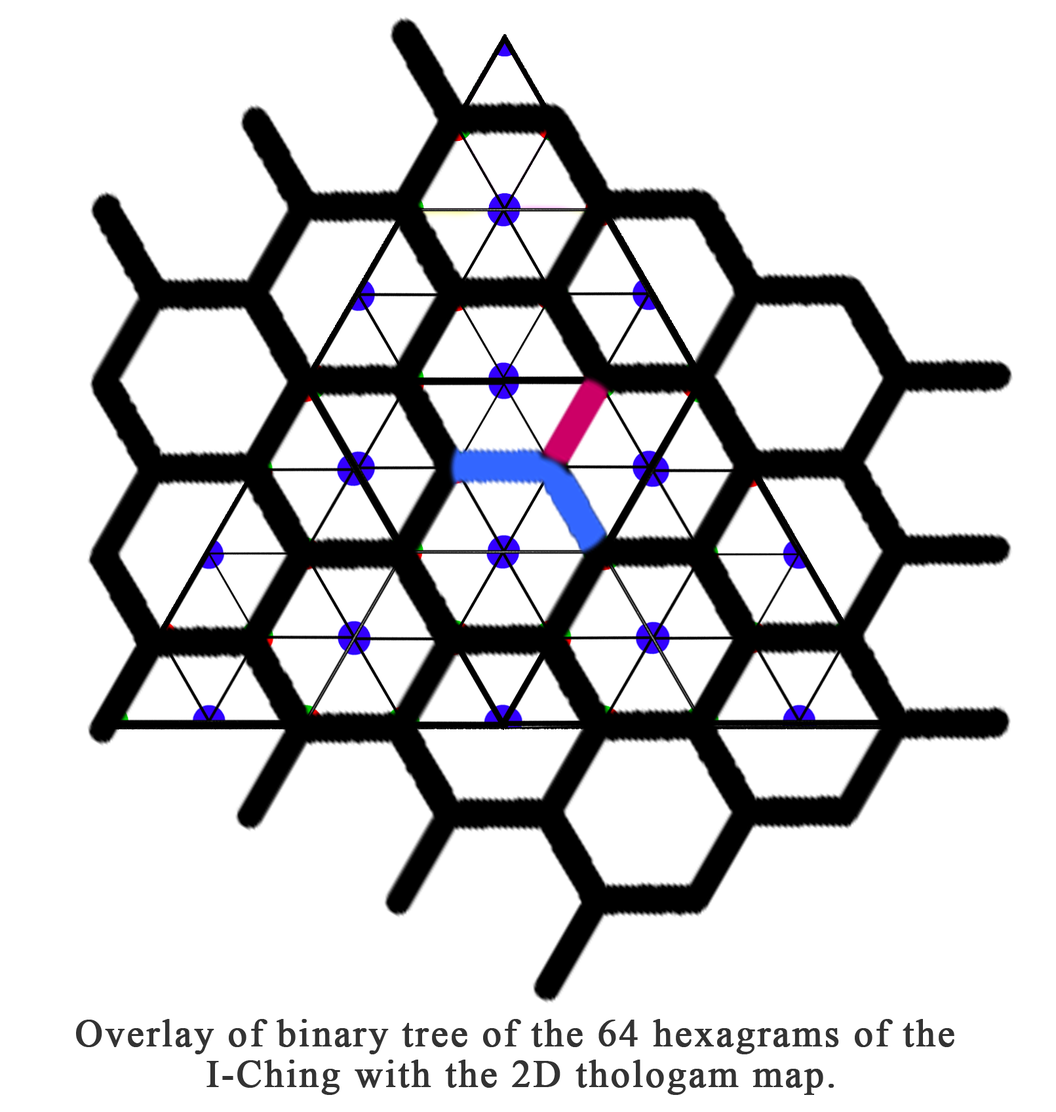
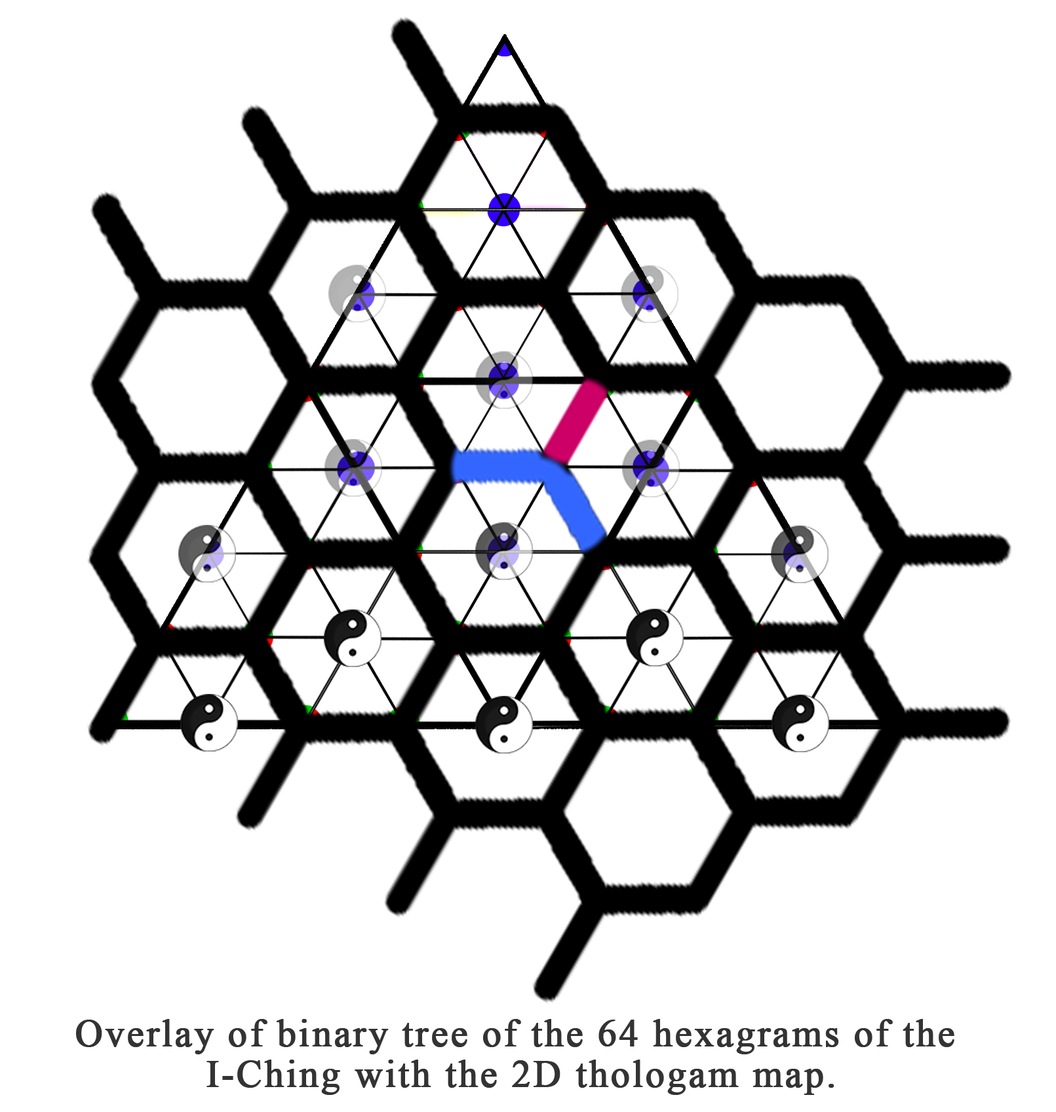
added section on I-Ching-

diff --git a/docs/_layouts/default.html b/docs/_layouts/default.html
@@ -36,7 +36,7 @@
           <li><a target="_blank" href="https://mega.nz/#F!NiBwjQiA!VYOo9TlGW9u060-V1LQ0_w">Download <strong>ePub</strong></a></li>
           <li><a target="_blank" href="https://mega.nz/#F!NiBwjQiA!VYOo9TlGW9u060-V1LQ0_w">Download <strong>HTML</strong></a></li>
         </ul>
-              current version: lun 28 oct 2019 11:23:49 EDT v.1.0.4
+              current version: mié 30 oct 2019 02:21:42 EDT v.1.0.7
 
 <!--
         ZIP and TAR downloads include 20+ megs of webpages, scripts, images and other material. 

diff --git a/Latest/THOLONIA_THE_BOOK.md b/Latest/THOLONIA_THE_BOOK.md
@@ -1,6 +1,6 @@
 <center><img style="text-align:center;width:100%" width="100%" src="../Images/000-cover.png" /></center>
 <div style="page-break-before: always"></div>
-DRAFT - Version Alpha {!lun 28 oct 2019 11:23:49 EDT v.1.0.4}
+DRAFT - Version Alpha {!mié 30 oct 2019 02:21:42 EDT v.1.0.7}
 
 Tholonia: The Existential Mechanics of Awareness
 Copyright © 2019 Duncan Stroud
@@ -1449,9 +1449,6 @@ You may also notice what looks like an inconsistency in the order of the letters
 We started with one trigram, created one more, resulting in 4 trigrams. Each generation of self-similar creation increases the number of trigrams by 4. Here is what the generations look like.
 
 <center><img src="../Images/062-4generations.png" style="width:90%" /></center>
-
-
-
 In the 1<sup>st</sup> generation of a simple trigram, we see a few fundamental rules, such as:
 
 -   All sides are of equal length
@@ -1637,7 +1634,7 @@ Does this mean that our 3D reality is embedded within a parent 3D reality? Accor
 
 ### Synergetics
 
-What some people today call *sacred geometry* our ancestors simply called geometry. Contrary to what we learned in school, geometry is as much a study of philosophy as it is a study of form, space, and mathematics. Plato, Pythagoras, Parmenides, and a number of other great philosophers were well-schooled in geometry, but the marriage of philosophy and geometry goes back even further in history, and across every culture. Take the quadray coordinates system as an example. One could make a case that the Ancient Babylonian base-60 number system was an early version of this idea.  In fact, one could make the case that the 20,000 year old Ishango Bone of the upper paleolithic era discovered in the Congo was the earliest versions of a base-60 system.  This bone is considered to be the fist instance of the concept of the number one.  On this bond are counting marks, 60 marks on one side, and 60 marks on the other side.  One has to wonder why a paleolithic caveman would choose 60 when other mammals could only count to 3 or 4.
+What some people today call *sacred geometry* our ancestors simply called geometry. Contrary to what we learned in school, geometry is as much a study of philosophy as it is a study of form, space, and mathematics. Plato, Pythagoras, Parmenides, and a number of other great philosophers were well-schooled in geometry, but the marriage of philosophy and geometry goes back even further in history, and across every culture. Take the quadray coordinates system as an example. One could make a case that the Ancient Babylonian base-60 number system was an early version of this idea.  In fact, one could make the case that the 20,000 year old Ishango Bone of the upper paleolithic era discovered in the Congo was the earliest versions of a base-60 system.  This bone is considered to be the fist instance of the concept of the number one.  On this bone are counting marks, 60 marks on one side, and 60 marks on the other side.  One has to wonder why a paleolithic caveman would choose 60 when other mammals could only count to 3 or 4.
 
 *Synergetics* is a modern-day example of how geometry forms the basis of the structure of creation, life and how everything interacts with each other. Buckminster Fuller coined the term *synergetics* in his three-volume work “*Synergetics. Explorations in the Geometry of Thinking*.”<sup>[52](#ref_052)</sup><a name="rev_052">&nbsp;</a>, wherein he explains how using a 60-degree coordinates system can explain both physics and chemistry, but more importantly, he believed that it also explained reality. In his words:
 
@@ -2721,6 +2718,208 @@ In this figure…
 …we show the three perspectives of a tholon, including the base, but you'll notice that the base trigram is reversed, as would be the case in a tholon as it is a mirror image of its parent, as described earlier. An interesting point here is that the outer boundaries of each figure show a consistent direction of flow, *Fig. v1* being neutral, *Fig. v2* clockwise, and *Fig. v3* counterclockwise, which matches the direction of the sides, however, the base is always counterclockwise.
 
 Tholonically, we can easily map thinks like Ragone and utility space (as in the battery), or laws and social responsibility (as in the example of society), to a simple trigram, but it is not yet clear, to me at least, what the social equivalent social expression of *I<sup>2</sup>* or, *SQRT(P/R)*, would represent. In fact, there are quite a lot of relationships, rules, and formulas in a tholon that will require considerably more study. What is presented here is the idea that the tholon can represent any system when described in its most reduced states. This work is more akin to the Wright Brother’s first flight rather than a modern airplane, but like the Wright Brother’s first flight, they demonstrated what *could* be. That is what I hope to achieve here.
+
+
+<div style="page-break-before: always"></div>
+C - Tholonia and the I-Ching
+=================
+
+
+###### **!!! his sections is a work-in-progress and still quite incomplete. !!!**
+
+
+
+It's been mentioned several times already that the basic principles of the tholonic model should exist in any sustainable model, be it form or idea, if all creation follows the same rules.  
+
+To test this we would need to find a model that has existed for many years, purports to explain the nature of reality,  is expressed in a language compatible with geometry or mathematics, which would be necessary to make valid comparisons with the thologram as it is also based on geometry and mathematics.
+
+Many religious, spiritual and legendary models claim to shed light on the mystery of reality, and even though we can find metaphorical parallels within the thologram, that is not sufficient to make a solid case.  We need something more quantified.
+
+The closest Western models that we can find are science and its precursor, alchemy.  However, we want to find a model that is outside the more science-based because it is already obvious how geometry and math work in those areas.   We also prefer to find a model that is more ancient as the hypothesis here is that both ancient and modern models of reality have the same conceptual foundation.
+
+What ancient models exist?  There are the Hindu scriptures, which are both elaborate, detailed and quite ancient, but extremely difficult to quantify for comparison.
+
+There is the ancient work of Sumeria, Babylon, Egypt and the Jews, all of which culminate in the mystical Kabbalah, but these works are so shrouded and protected that simply compiling the data necessary would be the task of a lifetime.
+
+Finally, we have the ancient Chinese I-Ching, or Book of Changes, which dates back to the 10th century B.C. and has been integrated into Taoism, Confucianism, Buddhism and more.
+
+Of these, the I-Ching is the best candidate for the following reasons...
+
+- It is based on the same basic idea that every exists between a state of somethingness and nothingness.
+- It's origins come from the legendary world ruler Fu Xi's desire to "become thoroughly conversant with the numinous and bright and to classify the myriad things." which is the same motivation behind the birth of philosophy and ontology in the West.
+- Unlike the Hindu texts, and to a lesser degree the Kabbalah, the I-Ching is constantly evolving.  What began as a primitive ritual of comparing tortoiseshell cracks to the stars i the sky has evolved into a form of binary math that even great thinks of today are trying to decipher.
+- It has found a home in every major culture in the world; Western, Jewish, Islamic, Asian and East Asian and its ideas have been incorporated into philosophy, religion, art, literature, science, technology and medicine.
+
+So, let's deconstruct the I-Ching using the tholonic modal and see what we find.
+
+For the record, I had no idea how this would turn out.  I did not do it ahead of time and only report successful results.  In fact, only after the entire book was written did I have the ideas to test against the I-Ching.  The results I report here were all new to me at the time of the writing, and they were and absolutely astonishing.
+
+There are many, many books on the origins and philosophy of the I-Ching, so we are not going to get into that here.  If you want to know more about some of the details we present regarding the I-Ching you are going to have to do your own research.
+
+The most obvious and important foundation of the I-Ching is that it is based on the polarity of yin and yang.  Although this concept arose before the birth of Taoism, the Taoist symbol of Yin/Yang has come to perfectly embody its concept.
+
+<center><img style="text-align:center;width:30%" src="../Images/ic_yinyang.jpg" /></center>
+This Taoist symbol does not represent the Oneness from which the first duality emerged, as it is often believed.  Rather it represents the Oneness that emerges from an existing duality, in others words, an N-state.   The original Oneness, for which there is no image, is the source from which the initial ‘blue dot’ appears in nothingness, and as is did not come from a duality (that we can see) there is nothing we can say about it for now other than “it just is.”  So, this image represents the Oneness that comes from the first duality if somethingness and nothingness.  In the thologram,, that first duality is the ‘green dot’ and the ‘red dot’, and if you remember, it is only the spectrum that connects these two dots where a new N-state can emerge from.
+
+From the tholonic perspective, that which created the first duality is different from that which creates all the other dualities, but the process is the same.  If we reuse a earlier diagram of the tholonic trigrams but replace the initial, and only the initial N-source with a Zen circle (because I have no ideas what *should* go there, just that is should not be the Tao circle), we have the following.
+
+<center><img style="text-align:center;width:100%" src="../Images/tao-3-steps.png" /></center>
+The I-Ching, like the thologram, has the basic concept of a trigram as the stable building block of ideas.  In the I-Ching a trigram is simply three states of yin/yang together to form a stable concept.  There are eight possible combinations when using yin and yang.
+
+<center><img style="text-align:center;width:30%" src="../Images/8-trigrams.jpg" /></center>
+.
+
+The I-Ching also has a concept of an ‘lower’ and an ’upper’ state.  The lower state can be earth, matter, the subjective, the hidden, the inner, etc. depending on context.  The ‘upper’ state is that of heaven, ideas, archetypes, the outer, exposed and the arena of creation, etc, also depending on context.  A hexagram is made up of these two states, each state occupied by one of the eight trigrams.  This results in a total of 64 hexagrams, the total number of hexagrams in the I-Ching 
+
+<center><img style="text-align:center;width:70%" src="../Images/ic_64hex.png" /></center>
+An I-Ching trigram is a very simple concept of earth at the bottom, heaven at the top and humanity in the middle.  As you can see, this is not only a very simple concept, but a very limited one as these concepts only apply to a human context.  The thologram has the same concept of a trigram that is quite compatible with the I-Ching but far more functional.  The tholonic trigram is made of a thesis, antithesis and a synthesis; a source, and its two polar opposites that define it.  Certainly the I-Ching model of a trigram fits into this if humanity is the synthesis of heaven and earth, or if the duality of heaven and earth define the spectrum wherein humanity will grow.
+
+The thologram also a a concept of “upper” and Lower” in that the ‘upper’ trigram of the I-Ching therefore equates nicely to the parent trigram of a tholon, and the resulting inner trigram of the tholon, because it was created by the new N-source of the parent, equates perfectly with the “lower’ trigram of the I-Ching.  We can now see that the final hexagram is perfectly equivalent to a tholon map.
+
+
+
+<center><img style="text-align:center;width:100%" src="../Images/tri-is-hex.png" /></center>
+It might see counterintuitive that the *upper* or *outer* trigrams of the I-Ching equate to the smaller and smaller embedded trigrams of the thologram, but not when you consider that it is the smallest and most embedded tholons that represent the bleeding edge of reality where new creations are being born, dying, and morphing.  The farther up the thologram the less things change.  In the thologram, the parent trigrams is what forms the environment or context for a new N-source to come into existence, so the parent trigram is the time of gestation for the yet to be manifest N-state.  The smaller, inner trigram inside the parent is where the newly created N-state crates its own environment.  This is why the I-Ching’s *lower* trigram equates to the tholon’s parent tholon, and the upper trigram equates to the child tholon’s instantiation. This is different from when we create a tholon by incorporating the trigrams all on the same map (the grayed out trigrams in the above example).  
+
+*Note:One interesting details when we use the outer trigram on the parent level with the inner trigram on the child level; all the numbers for each side equal nine (1+6+2, 2+4+3, 3+5+1).  That does not mean it is correct, but it does mean there is natural symmetry, and symmetry is an excellent indicator of order, and therefore energy.*
+
+In the hexagram there are two lines that represent the best form of expression in the inner and the outer level, and those are the middle line of the lower trigram (line #2) and the middle line of the upper trigram (line #5).  Tholonically these two points are the beginning points, and therefore the creators, of the only two lines in the tholon that are capable of interacting with other tholons (i.e., anything outside itself).
+
+The above satisfies me that the thologram and the I-Chine are based on the same model but were arrived at from very different directions, in different contexts and withins different scopes.
+
+According to the I-Ching it requites 6 stages of growth necessary to allow the unfolding to complete.  This is stated very cleary:
+
+> All movements are accomplished in six stages, and the seventh brings return.
+
+##### ~ Hexagram 24 ‘Return’
+
+> The holy man, who understands the mysteries of creation inherent in end and beginning, becomes superior to the limitations of the transitory. For him, the meaning of time is that in it, the stages of growth can unfold in a clear sequence. He is mindful at every moment and uses the six stages of growth as if they were six dragons (the image attributed to the individual lines) on which he mounts to heaven.
+
+##### ~ Commentary on hexagram #1, the Creative (The I Ching,  Wilhelm/Baynes edition)
+
+So it is not surprising that the 64 hexagrams represent the 64 paths from Tao to endpoint that result from 6 stages bifurcation.  
+
+<center><img style="text-align:center;width:100%" src="../Images/ic-btree.png" /></center>
+How would the thologram describe these six stages then?  Although this bifurcation produces 64 paths, it is more accurate to think of two sets of trees, each tree only 3 levels deep.  In this was we have 8 trigrams from one tree and 8 from another tree.  The reason this is more useful is because the two trigrams, upper and lower, are essentially the same but in two different contexts.  For example:
+
+- **Line 1** is **yang** by nature in the lower trigram and represents something like **insemination** or **conception**. It represents the existing and stable N-state and its attempt to create a new instance of itself.  It is the synthesis creating a new thesis.
+- **Line 2** is **yin** by nature and represent the nature of **gestation**.  This is where the concept, or what ever was created, has to instantiate itself with the resources at hand.  It is in this stage that where on the spectrum the conception will find stability.
+- **Line 3** is **yang** by nature and represents the final product that is now ready to be introduced (given back to) to the outer world.  This is the beginning of birth.
+
+In-between line 3 and line 4 is when/where the N-state is negotiated as a result of a stable pattern emerging on the spectrum between two poles.  This would not only be equivalent to birth but tholonically is a reconstitution, a resurrection, of the N-state from which its duality was born.
+
+Once we cross the line from inner to outer, the pattern flips.  What was **yang** in the *inner* world is **yin** in the *outer* world, and what was **yin** in the *inner* world is **yang** in the *outer* world.  We see this same thing in the *reflection* trigrams and virtual tholons.
+
+- **Line 4** is **yin** by nature in the upper trigram and represents the **initiation** or **propagation** of this new stable instance (baby, invention, vision, creations of any kind) into the outer world.
+- **Line 5**  is **yang** by nature and represents the **culmination** or the **limits** of this instance’s existence.  
+- **Line 6**  is **yin** by nature and represents the **integration** of the creation into the larger whole, or tholonically speaking, how it is **amalgamated** into the thologram.  This marks the end of the upper trigram and its transition into a *lower* trigram for the next iteration.
+
+Here are a couple of interesting observations:
+
+- In-between line 3 and line 4 is when/where the N-state is negotiated as a result of a stable pattern emerging on the spectrum between two poles.  This would not only be equivalent to birth but tholonically is a reconstitution, a resurrection, of the N-state from which its duality was born.
+- We see 6 popping up a lot.  We have 6 steps of creation of a hexagram, six electrons in carbon, the major building block of life, the N-source has a value of 6, we see 6 play a significant role in creation myths such as Genesis and the Quran where all of creation was accomplished in 6 days, and in the Babylonian creation myth, the Enuma Elis, where God created 6 gods, each in charge of the 6 different aspect of creation (where they spent 2 days creating everything and the rest of their days fighting with each other).  6 seems to be very significant number and is firmly associated with the concept of creation.
+
+
+
+To help illustrate these steps, let’s look at this bifurcating tree in a different way:
+
+<center><img style="text-align:center;width:80%" src="../Images/taotree.png" /></center>
+Here we have the same tree, but the starting point is in the middle as opposed to the top.  The blue circles represent the yang lines and the red circles represent the yin lines.  Following the path from the center to every endpoint will result in 64 paths, each one matching one of the I-Ching hexagrams.
+
+The first thing to notice is two-fold: 1) the top and the bottom are the same but opposite, and 2) this is the same archetypal structure that we see in all growing and alive systems, the most obvious being plants and trees with their roots and stems, and is a very good instantiated example of the concept of *inner* and *outer*, *upper* and *lower*. etc. 
+
+The second to notice is that all the *inner* paths, which are those that begin from the first red dot after the Tao symbol, start with with a yin value.  This is significant because in thologram there is a similar concept of a real tholon and a virtual tholon which are matched to create a complete tholon.  In the thologram all odd numbered tholons are real and all even numbered tholons.  Likewise all hexagrams that begin with a yin line are even numbered hexagrams, and those that begin with  a yang are odd numbered.  We now have a very clean mapping between the thologram and the I-Ching of *virtual* as yin and *real* as yang.  If you are thinking “Well, would that happens if we just rearrange the numbers of one process and use them in another?“, which would be a very valid question, remember that we arrived at the same results from two completely different processes; the process of the thologram was based creating a tetrahedron from a point, while the I-Ching is based solely in the binary system which was never used in the thologram.
+
+There are many mappings and similarities between the tholon and the I-Ching, but I will only show one more because it not only maps hexagrams to tholons, but to basic physical structures on nature.
+
+If we create a binary tree of the I-Ching such that each generation expands into the most available space, as nature and energy in general will do (and which also happens to be a 60 degree angle, the angle that creates tetrahedron/tholon), we get the following patterns:
+
+
+
+<center><img style="text-align:center;width:100%" src="../Images/generations.png" /></center>
+<center><img style="float:right;text-align:center;width:30%" src="../Images/overlay.png" /></center>Simply splitting one into two the laws of energy naturally form a pattern of hexagrams list like how the expansion of a single to to many dots will do the exact same thing.  The I-Ching and the thologram are two different models based on the same laws, one based on 2 and one based on 3.  Not surprisingly, the one point they both naturqally center around is the N-source, we have also shown to be eqivalent to the   <img style="width:25px" src="../Images/ic_yinyang-small.png" />
+We can take this a step further and define each hexagram in the I-Ching by its tholonic properties, or have the hexagrams define properties of the tholon… which ever way the evidence leads.  The two systems are not incompatible, if fact, the thologram may turn out to be a 3D tetrahedral model of the same this the I-Ching is modeling… and what is the I-Ching modeling?
+
+Although it is commonly thought of as a tool for divination, this is only a consequences of the fact that is describes natural laws.  The I-Ching is a more of a technical manual:
+
+> After meeting genuine teachers all my doubts disappeared, so that for the first time I realized that the Tao of spiritual alchemy is none other than the Tao of I Ching, the Tao of sages is none other than the Tao of immortals, and that the I Ching is not a book of divination, but rather a study of investigation, of principles, fulfillment of nature, and arrival at the meaning of life. 
+
+##### ~ Liu Yiming (18th c. Taoist master)*
+
+> Although the words are very clear, yet they are also very vague. The shallow may take the I Ching to be a book of divination, but the profound consider it the secret of the Celestial Mechanism.
+
+##### ~ Lu Dongbin, 9th c. Taoist master (introduction of The Taoist I Ching)*
+
+Let’s return to the 6 steps…
+
+
+
+The thologram was created by the three propers of the the three original dots, and these three dots align perfectly with the three stages of creation as they appear on the inner and the outer.
+
+Equating the ***lower trigram*** to the three attributes of N, D, C
+
+| Tholonic (inner) |                                                         | I-Ching                                            |
+| ---------------- | ------------------------------------------------------- | -------------------------------------------------- |
+| Negotiation      | <img src="../Images/dot-blue.png" style="width:50px"/>  | **Line 1:** insemination/conception                |
+| Definition       | <img src="../Images/dot-red.png" style="width:50px"/>   | **Line 2:** gestation, development, growth         |
+| Contribution     | <img src="../Images/dot-green.png" style="width:50px"/> | **Line 3:** viability as determined by environment |
+
+Equating the ***upper trigram*** to the three attributes of N, D, C
+
+| Tholonic (outer) |                                                         | I-Ching                                           |
+| ---------------- | ------------------------------------------------------- | ------------------------------------------------- |
+| Negotiation      | <img src="../Images/dot-blue.png" style="width:50px"/>  | **Line 4:** birth, instantiation                  |
+| Definition       | <img src="../Images/dot-red.png" style="width:50px"/>   | **Line 5:** culmination                           |
+| Contribution     | <img src="../Images/dot-green.png" style="width:50px"/> | **Line 6:** integration into external environment |
+
+
+
+Let’s run another test so see if the thologram and the I-Ching are two views of the same model.
+
+Previously we assigned the positions of the points as 1,2,3,4,5,6 in order to work with the positions of the lines.  Now we need to work with the hexagrams and their values so we need to use the position of the point as the exponential value of 2 (‘cause we’re working in binary), and we now need to start counting at 0, not 1.  In *Fig. e1* you can see the values arrived at for each point, and the exponent used to get that value.
+
+*Fig. e2* shows the sum of these values for each trigram and each side. 
+
+In *Fig e3* we have added the name and the hexagram.  Don’t forget that all these numbers are binary, and not the number as they appear in the traditional I-Ching layout.
+
+The most obvious detail is shown in *Fig. e4a, e4b, and e4c,* and it’s quite impressive
+
+- The sum of any trigram and the side opposite that trigram always equal 63, the maximum number possible.  This was exciting to discover as it supports the tholonic claim that the effect of any point can be seen on the side opposite that point.
+
+- What I was not expecting to see is the math pattern of the tholon also works!  For example, 14 + 21 = 35.
+
+- What about the middle trigram?  It does not have any other value to pair with.  Not only is there no room for its pair, it would need to be the value of 7.  However, the value of 7 does exist of we sum the three point id 1, 2 and 4, which would be the point that creates the ‘white dot’ of the tetrahedron, and it also is exactly opposite the center trigram of ‘Stagnation.’  The validity of the ‘white point’ being created by the sum of the red, green and blue dots is supported here.
+
+  Just as an interesting aside,. the hexagram that is binary value 7 is “Peace”, <img src="/home/jw/sites/the-book/Images/hexagram11.png" style="width:30px"/>which is defined as “heaven on earth” in the text, which is pretty compatible with the concept of the tetrahedron being the first physical (earth) formation of a purely abstract and archetypal (heaven) idea of the triangle.
+
+- We have a number of other patterns, for example 
+
+  - Stagnation (56)  - Before Completion (42) = Duration (14)
+  - Stagnation (56)  - Duration (14) = Before Completion (42) 
+  - Stagnation (56)  - Increase (49) = Peace (7)
+  - Stagnation (56) + Increase (49) = Before Completion (42) (after lowering the number by one octave; 105 - 63)
+  - Stagnation (56) + Before Completion (42) = Decrease (35) 
+  - Stagnation (56) + Duration (14) = Peace (7)
+  - After Completion (21) + Peace (7) = Wooing (28)
+  - After Completion (21) - Peace (7) = Duration (14) 
+  - Every number (14, 21, 28, 35, 42, 49, 56) is a product of 7 (7x2,7x3, 7x4, 7x5, 7x6, 7x7, 7x8)
+  - Only the numbers of the top trigram, which is the originating trigram, are odd.
+  - There are many more patterns and relationships as well, and this is only within one tholon that has no parents or children!
+
+
+
+
+
+
+
+
+
+<center><img style="text-align:center;width:100%" src="../Images/tritest.png" /></center>
+I think it is quite obvious and provable that the I-Chine and the thologram are based on the same model.  Given that the Kabbalah and the I-Ching are also based on the same model (which I will not elaborate on here as it is way too long), we can say that the thologram, and the Kabbalah is also based on the same model.
+
+I do not doubt that the thologram could be used as a tool for divination, mysticism and magic, and many other applications.  Any truth that exists can be found in many different instances, and its truth is just as valid on one context as another`.  The only limitation is the creative imagination of the perceiver.
+
+
 
 
 

diff --git a/README.md b/README.md
@@ -1,7 +1,7 @@
 
 see <https://tholonia.github.io/the-book/>
 
-DRAFT - Version Alpha {!lun 28 oct 2019 11:23:49 EDT v.1.0.4}
+DRAFT - Version Alpha {!mié 30 oct 2019 02:21:42 EDT v.1.0.7}
 
 Tholonia: The Existential Mechanics of Awareness
 Copyright © 2019 Duncan Stroud
